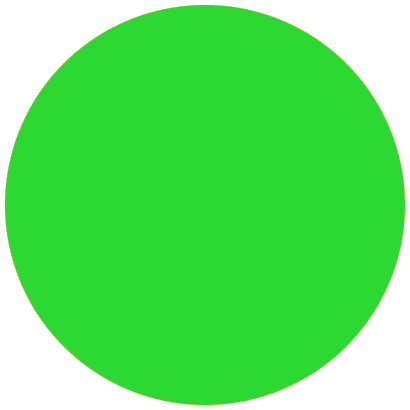
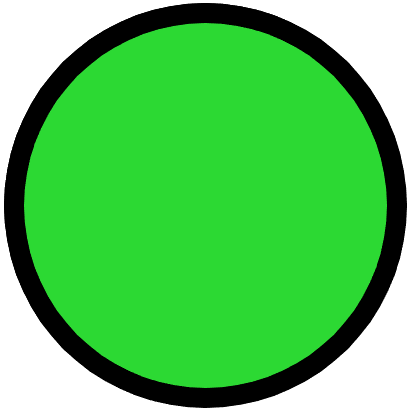
updated design of figures,fields and background

Changed region(s): [[0.0, 0.0, 0.9951, 0.9951]]

diff --git a/src/ui/GameplayState.java b/src/ui/GameplayState.java
@@ -49,7 +49,7 @@ public class GameplayState extends BasicGameState {
         Entity background = new Entity("background");	// Entitaet fuer Hintergrund
         background.setPosition(new Vector2f(global.X_DIMENSIONS/2, global.Y_DIMENSIONS/2));	// Startposition des Hintergrunds
         background.setScale(global.BACKGROUND_SIZE);
-        background.addComponent(new ImageRenderComponent(new Image("/assets/test.png"))); // Bildkomponente
+        background.addComponent(new ImageRenderComponent(new Image("/assets/background.png"))); // Bildkomponente
 
         // Hintergrund-Entitaet an StateBasedEntityManager uebergeben
         StateBasedEntityManager.getInstance().addEntity(global.GAMEPLAY_STATE, background);
